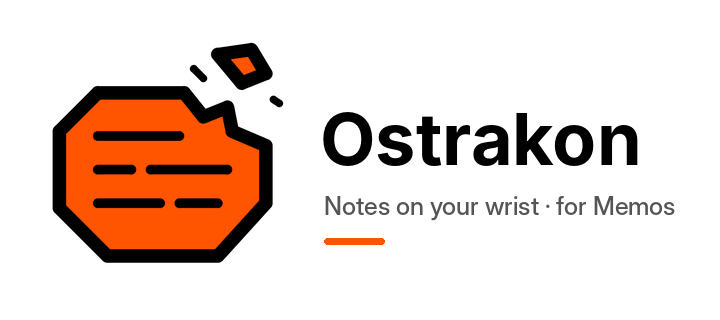
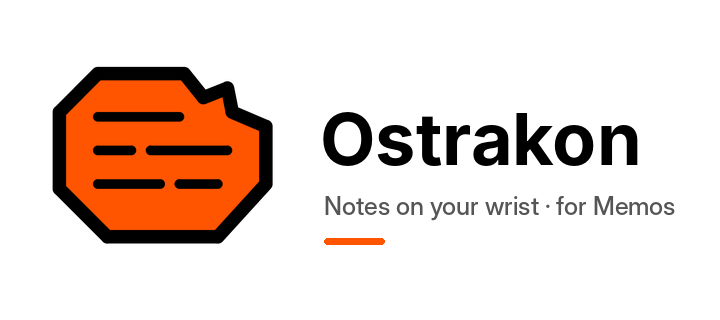
Leave the chip off the shard
The shard alone reads better, so the icon and the loading animation no
longer have the chip broken off its corner and its motion lines. The
shard moves up into the space they left.

Claude-Session: https://claude.ai/code/session_01WovyXuQUzfszfuJYwMTSM9

Changed region(s): [[0.0611, 0.125, 0.3972, 0.8438], [0.3667, 0.2812, 0.3972, 0.3438]]

diff --git a/src/c/ui.c b/src/c/ui.c
@@ -145,21 +145,15 @@ void ui_draw_loading_dots(GContext *ctx, GPoint center, int frame,
 //
 // It moves like the icons of the PebbleOS Weather app: the shard drops in
 // with a squash and stretch and floats gently, while the writing is
-// scratched onto it stroke by stroke with dust flying off the tip. The chip
-// broken off its corner floats on its own. Once the writing is done the
-// shard hops, shakes the writing off and it starts over.
+// scratched onto it stroke by stroke with dust flying off the tip. Once
+// the writing is done the shard hops, shakes the writing off and it starts
+// over.
 
 #define SHARD_GRID 500
 #define SHARD_NUM_POINTS 11
 static const GPoint SHARD_POINTS[SHARD_NUM_POINTS] = {
-    {30, 190},  {110, 110}, {290, 110}, {330, 160}, {380, 140}, {390, 190},
-    {460, 220}, {460, 340}, {360, 450}, {130, 450}, {30, 350}};
-#define CHIP_NUM_POINTS 4
-static const GPoint CHIP_POINTS[CHIP_NUM_POINTS] = {
-    {360, 30}, {430, 20}, {460, 70}, {410, 90}};
-// short lines between the shard and the chip, as if it just flew off
-static const GPoint MOTION_LINES[][2] = {{{310, 60}, {330, 80}},
-                                         {{476, 124}, {488, 132}}};
+    {30, 150},  {110, 70},  {290, 70},  {330, 120}, {380, 100}, {390, 150},
+    {460, 180}, {460, 300}, {360, 410}, {130, 410}, {30, 310}};
 
 // the writing, one horizontal stroke per entry, scratched in this order
 typedef struct {
@@ -169,14 +163,14 @@ typedef struct {
 } Stroke;
 
 static const Stroke WRITING[] = {
-    {110, 280, 200}, {110, 180, 270}, {220, 380, 270},
-    {110, 240, 340}, {280, 360, 340},
+    {110, 280, 160}, {110, 180, 230}, {220, 380, 230},
+    {110, 240, 300}, {280, 360, 300},
 };
 #define NUM_STROKES ((int)ARRAY_LENGTH(WRITING))
 
 // The shard squashes and stretches around the middle of its bottom edge
 #define SHARD_ANCHOR_X 250
-#define SHARD_ANCHOR_Y 450
+#define SHARD_ANCHOR_Y 410
 
 // Where the shard is and how it is squashed, per frame: an offset in
 // tenths of the grid and a scale in percent
@@ -193,8 +187,8 @@ static const Pose DROP_IN[] = {
 };
 // crouches, hops and lands again while the writing is shaken off
 static const Pose HOP[] = {
-    {0, 108, 92},  {-40, 94, 108}, {-60, 96, 105}, {-40, 100, 100},
-    {0, 114, 86},  {0, 104, 96},   {0, 100, 100},
+    {0, 108, 92}, {-40, 94, 108}, {-60, 96, 105}, {-40, 100, 100},
+    {0, 114, 86}, {0, 104, 96},   {0, 100, 100},
 };
 #define DROP_IN_FRAMES ((int)ARRAY_LENGTH(DROP_IN))
 #define HOP_FRAMES ((int)ARRAY_LENGTH(HOP))
@@ -206,9 +200,8 @@ static const Pose HOP[] = {
 #define STROKE_GAP 60
 // frames the finished writing stays before the hop
 #define HOLD_FRAMES 12
-// frames of one float up and down, of the shard and of the chip
+// frames of one float up and down
 #define FLOAT_FRAMES 40
-#define CHIP_FLOAT_FRAMES 26
 #define LOADING_SHARD_FRAME_MS 66
 
 #ifdef PBL_COLOR
@@ -230,19 +223,16 @@ typedef struct {
   int stage_frame;
   int frame;  // since the shard landed, for floating
   GPath *shard_path;
-  GPath *chip_path;
   GPoint shard_points[SHARD_NUM_POINTS];
-  GPoint chip_points[CHIP_NUM_POINTS];
   GPoint origin;
   int size;
 } LoadingData;
 
-// a point of the grid on the screen, offset by dx and dy (in grid tenths)
-// and squashed by pose
-static GPoint shard_point(const LoadingData *data, GPoint grid, int dx, int dy,
+// a point of the grid on the screen, floated up or down by dy (in grid
+// tenths) and squashed by pose
+static GPoint shard_point(const LoadingData *data, GPoint grid, int dy,
                           const Pose *pose) {
-  int32_t x =
-      SHARD_ANCHOR_X + (grid.x - SHARD_ANCHOR_X) * pose->scale_x / 100 + dx;
+  int32_t x = SHARD_ANCHOR_X + (grid.x - SHARD_ANCHOR_X) * pose->scale_x / 100;
   int32_t y = SHARD_ANCHOR_Y + (grid.y - SHARD_ANCHOR_Y) * pose->scale_y / 100 +
               pose->dy + dy;
   return GPoint(data->origin.x + x * data->size / SHARD_GRID,
@@ -279,33 +269,10 @@ static void loading_update(Layer *layer, GContext *ctx) {
   graphics_context_set_antialiased(ctx, true);
   graphics_context_set_stroke_color(ctx, GColorBlack);
 
-  // the chip floats on its own, in a small loop
-  int chip_dx = 0;
-  int chip_dy = 0;
-  if (data->stage != LoadingDropIn) {
-    chip_dx = wave(8, data->frame, CHIP_FLOAT_FRAMES, TRIG_MAX_ANGLE / 4);
-    chip_dy = wave(20, data->frame, CHIP_FLOAT_FRAMES, 0);
-  }
-  for (int i = 0; i < CHIP_NUM_POINTS; i++) {
-    data->chip_points[i] =
-        shard_point(data, CHIP_POINTS[i], chip_dx, float_y + chip_dy, pose);
+  for (int i = 0; i < SHARD_NUM_POINTS; i++) {
+    data->shard_points[i] = shard_point(data, SHARD_POINTS[i], float_y, pose);
   }
   graphics_context_set_fill_color(ctx, SHARD_FILL_COLOR);
-  gpath_draw_filled(ctx, data->chip_path);
-  graphics_context_set_stroke_width(ctx, outline > 3 ? 3 : 2);
-  gpath_draw_outline(ctx, data->chip_path);
-  // the motion lines show while the chip is up, away from the shard
-  if (chip_dy < 0) {
-    for (int i = 0; i < (int)ARRAY_LENGTH(MOTION_LINES); i++) {
-      graphics_draw_line(
-          ctx, shard_point(data, MOTION_LINES[i][0], 0, float_y, pose),
-          shard_point(data, MOTION_LINES[i][1], 0, float_y, pose));
-    }
-  }
-
-  for (int i = 0; i < SHARD_NUM_POINTS; i++) {
-    data->shard_points[i] = shard_point(data, SHARD_POINTS[i], 0, float_y, pose);
-  }
   gpath_draw_filled(ctx, data->shard_path);
   graphics_context_set_stroke_width(ctx, outline);
   gpath_draw_outline(ctx, data->shard_path);
@@ -333,20 +300,22 @@ static void loading_update(Layer *layer, GContext *ctx) {
       to_x -= cut;
     }
     graphics_draw_line(
-        ctx, shard_point(data, GPoint(from_x, stroke->y), 0, float_y, pose),
-        shard_point(data, GPoint(to_x, stroke->y), 0, float_y, pose));
+        ctx, shard_point(data, GPoint(from_x, stroke->y), float_y, pose),
+        shard_point(data, GPoint(to_x, stroke->y), float_y, pose));
     if (written < length) {
       // dust flying off the tip, a little further every frame
       GPoint tip = GPoint(to_x, stroke->y);
       int fly = 20 + 15 * (data->stage_frame % 3);
       graphics_context_set_fill_color(ctx, GColorBlack);
       graphics_fill_circle(
-          ctx, shard_point(data, GPoint(tip.x + fly, tip.y - 2 * fly), 0,
-                           float_y, pose),
+          ctx,
+          shard_point(data, GPoint(tip.x + fly, tip.y - 2 * fly), float_y,
+                      pose),
           1);
       graphics_fill_circle(
-          ctx, shard_point(data, GPoint(tip.x + 2 * fly, tip.y - fly), 0,
-                           float_y, pose),
+          ctx,
+          shard_point(data, GPoint(tip.x + 2 * fly, tip.y - fly), float_y,
+                      pose),
           1);
     }
     written -= length;
@@ -404,10 +373,8 @@ Layer *ui_loading_layer_create(GRect frame) {
   data->origin =
       GPoint((frame.size.w - data->size) / 2, (frame.size.h - data->size) / 2);
   // the points are filled in when drawing
-  data->shard_path = gpath_create(&(GPathInfo){
-      .num_points = SHARD_NUM_POINTS, .points = data->shard_points});
-  data->chip_path = gpath_create(
-      &(GPathInfo){.num_points = CHIP_NUM_POINTS, .points = data->chip_points});
+  data->shard_path = gpath_create(&(GPathInfo){.num_points = SHARD_NUM_POINTS,
+                                               .points = data->shard_points});
 
   layer_set_update_proc(layer, loading_update);
   layer_set_hidden(layer, true);
@@ -433,7 +400,6 @@ void ui_loading_layer_destroy(Layer *layer) {
   ui_loading_layer_set_active(layer, false);
   LoadingData *data = layer_get_data(layer);
   gpath_destroy(data->shard_path);
-  gpath_destroy(data->chip_path);
   layer_destroy(layer);
 }
 

diff --git a/store/make_art.py b/store/make_art.py
@@ -15,19 +15,16 @@ BLACK = (0, 0, 0, 255)
 ORANGE = (255, 85, 0, 255)  # GColorOrange, the Pebble orange
 WHITE = (255, 255, 255, 255)
 
-# A shard of pottery with writing scratched onto it and a chip broken off
-# its corner, in a 25x25 grid. src/c/ui.c draws the same shard, twice the
+# A shard of pottery with writing scratched onto it and a broken corner,
+# in a 25x25 grid. src/c/ui.c draws the same shard, twice the
 # size, for the loading animation.
-SHARD = [(1.5, 9.5), (5.5, 5.5), (14.5, 5.5), (16.5, 8), (19, 7), (19.5, 9.5),
-         (23, 11), (23, 17), (18, 22.5), (6.5, 22.5), (1.5, 17.5)]
-CHIP = [(18, 1.5), (21.5, 1), (23, 3.5), (20.5, 4.5)]
-WRITING = [[(5.5, 10), (14, 10)], [(5.5, 13.5), (9, 13.5)], [(11, 13.5), (19, 13.5)],
-           [(5.5, 17), (12, 17)], [(14, 17), (18, 17)]]
-# short lines showing the chip flying off, only drawn at larger sizes
-MOTION = [[(15.5, 3), (16.5, 4)], [(23.8, 6.2), (24.4, 6.6)]]
+SHARD = [(1.5, 7.5), (5.5, 3.5), (14.5, 3.5), (16.5, 6), (19, 5), (19.5, 7.5),
+         (23, 9), (23, 15), (18, 20.5), (6.5, 20.5), (1.5, 15.5)]
+WRITING = [[(5.5, 8), (14, 8)], [(5.5, 11.5), (9, 11.5)], [(11, 11.5), (19, 11.5)],
+           [(5.5, 15), (12, 15)], [(14, 15), (18, 15)]]
 
 
-def draw_shard(size, fill, outline, ink, motion=True, ss=8):
+def draw_shard(size, fill, outline, ink, ss=8):
     """Returns the shard at size x size, drawn ss times larger and scaled
     down for smooth edges. Widths are in units of the 25x25 grid."""
     big = size * ss
@@ -49,14 +46,10 @@ def draw_shard(size, fill, outline, ink, motion=True, ss=8):
         for x, y in points:  # round caps and joins
             di.ellipse([x - r, y - r, x + r, y + r], fill=255)
 
-    for polygon in (SHARD, CHIP):
-        db.polygon(scaled(polygon), fill=255)
-        stroke(polygon, outline, closed=True)
+    db.polygon(scaled(SHARD), fill=255)
+    stroke(SHARD, outline, closed=True)
     for line in WRITING:
         stroke(line, ink)
-    if motion:
-        for line in MOTION:
-            stroke(line, ink * 0.8)
 
     ink_layer = ink_layer.resize((size, size), Image.LANCZOS)
     body = body.resize((size, size), Image.LANCZOS)
@@ -90,9 +83,8 @@ def pixel_shard(fill):
         for x, y in points:
             di.ellipse([x - r, y - r, x + r, y + r], fill=255)
 
-    for polygon in (SHARD, CHIP):
-        db.polygon(scaled(polygon), fill=255)
-        stroke(polygon, 1.7, closed=True)
+    db.polygon(scaled(SHARD), fill=255)
+    stroke(SHARD, 1.7, closed=True)
     for line in WRITING:
         stroke(line, 1.2)
     ink = ink.resize((25, 25), Image.BOX)
@@ -116,7 +108,7 @@ for size in (144, 48):
     inner = size - 2 * pad
     # thinner lines in the small icon, like the 25px PebbleOS icons
     outline, ink = (1.5, 1.1) if size >= 100 else (1.8, 1.3)
-    canvas.alpha_composite(draw_shard(inner, ORANGE, outline, ink, motion=size >= 100),
+    canvas.alpha_composite(draw_shard(inner, ORANGE, outline, ink),
                            (pad, pad))
     canvas.save(os.path.join(STORE, f'icon-{size}.png'))
 
